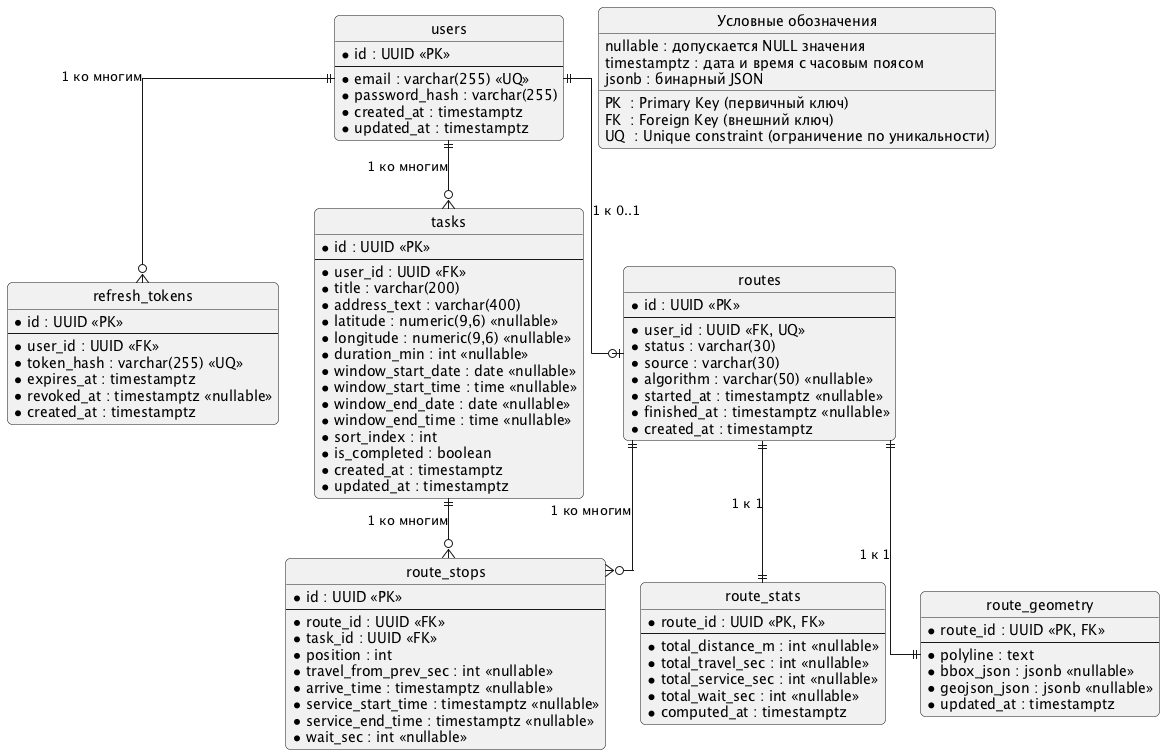
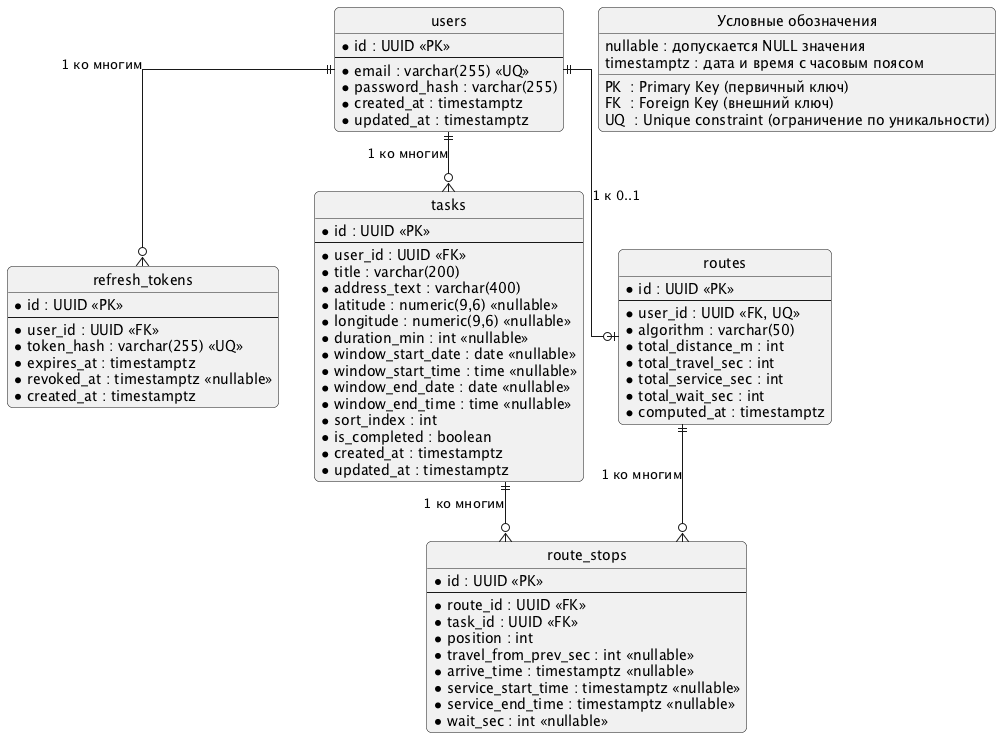
Оптимизировал модель данных ERD. Убрал лишние столбцы

diff --git a/frontend/Task Planning App/src/app/api/client.ts b/frontend/Task Planning App/src/app/api/client.ts
@@ -36,10 +36,12 @@ interface ApiTask {
 
 interface ApiRoute {
     ID: string;
-    Status: string;
-    Source: string;
-    CreatedAt: string;
-    Name?: string | null;
+    Algorithm: string;
+    ComputedAt: string;
+    TotalDistanceM: number;
+    TotalTravelSec: number;
+    TotalServiceSec: number;
+    TotalWaitSec: number;
 }
 
 interface ApiRouteStop {
@@ -52,16 +54,9 @@ interface ApiRouteStop {
     WaitSec?: number | null;
 }
 
-interface ApiRouteStats {
-    TotalDistanceM?: number | null;
-    TotalTravelSec?: number | null;
-    TotalServiceSec?: number | null;
-}
-
 interface ApiRouteFull {
     Route: ApiRoute;
     Stops: ApiRouteStop[];
-    Stats?: ApiRouteStats | null;
 }
 
 export class ApiError extends Error {
@@ -428,15 +423,13 @@ function mapTaskFromApi(task: ApiTask): Task {
 function mapRouteSummary(route: ApiRoute): SavedRouteSummary {
     return {
         id: route.ID,
-        status: route.Status,
-        source: route.Source,
-        createdAt: route.CreatedAt,
-        name: route.Name ?? undefined,
+        algorithm: route.Algorithm,
+        computedAt: route.ComputedAt,
     };
 }
 
-function mapRouteDetails(route: ApiRouteFull): SavedRouteDetails {
-    const sortedStops = [...(route.Stops ?? [])].sort(
+function mapRouteDetails(full: ApiRouteFull): SavedRouteDetails {
+    const sortedStops = [...(full.Stops ?? [])].sort(
         (a, b) => a.Position - b.Position,
     );
 
@@ -452,29 +445,17 @@ function mapRouteDetails(route: ApiRouteFull): SavedRouteDetails {
         waitSec: s.WaitSec ?? undefined,
     }));
 
-    const totalDistanceKm =
-        route.Stats?.TotalDistanceM != null
-            ? route.Stats.TotalDistanceM / 1000
-            : undefined;
-    const totalTravelTimeMin =
-        route.Stats?.TotalTravelSec != null
-            ? Math.ceil(route.Stats.TotalTravelSec / 60)
-            : undefined;
-    const serviceTimeMin =
-        route.Stats?.TotalServiceSec != null
-            ? Math.ceil(route.Stats.TotalServiceSec / 60)
-            : undefined;
+    const totalDistanceKm = full.Route.TotalDistanceM / 1000;
+    const totalTravelTimeMin = Math.ceil(full.Route.TotalTravelSec / 60);
+    const serviceTimeMin = Math.ceil(full.Route.TotalServiceSec / 60);
 
     return {
-        ...mapRouteSummary(route.Route),
+        ...mapRouteSummary(full.Route),
         orderedTaskIds,
         stops,
         totalDistanceKm,
         totalTravelTimeMin,
-        totalDurationMin:
-            totalTravelTimeMin !== undefined || serviceTimeMin !== undefined
-                ? (totalTravelTimeMin ?? 0) + (serviceTimeMin ?? 0)
-                : undefined,
+        totalDurationMin: totalTravelTimeMin + serviceTimeMin,
     };
 }
 

diff --git a/frontend/Task Planning App/src/app/api/client.test.ts b/frontend/Task Planning App/src/app/api/client.test.ts
@@ -44,10 +44,12 @@ const apiTaskResponse = {
 
 const apiRouteResponse = {
   ID: 'route-1',
-  Status: 'optimized',
-  Source: 'optimized',
-  CreatedAt: '2024-01-01T00:00:00Z',
-  Name: 'My Route',
+  Algorithm: 'nearest-neighbor-tw',
+  ComputedAt: '2024-01-01T00:00:00Z',
+  TotalDistanceM: 5000,
+  TotalTravelSec: 1200,
+  TotalServiceSec: 3600,
+  TotalWaitSec: 0,
 };
 
 const apiRouteFullResponse = {
@@ -56,11 +58,6 @@ const apiRouteFullResponse = {
     { TaskID: 'task-1', Position: 0 },
     { TaskID: 'task-2', Position: 1 },
   ],
-  Stats: {
-    TotalDistanceM: 5000,
-    TotalTravelSec: 1200,
-    TotalServiceSec: 3600,
-  },
 };
 
 const server = setupServer(

diff --git a/frontend/Task Planning App/src/app/types/route.ts b/frontend/Task Planning App/src/app/types/route.ts
@@ -1,9 +1,7 @@
 export interface SavedRouteSummary {
   id: string;
-  status: string;
-  source: string;
-  createdAt: string;
-  name?: string;
+  algorithm: string;
+  computedAt: string;
 }
 
 export interface RouteStopTiming {

diff --git a/backend/internal/domain/route/story/story_test.go b/backend/internal/domain/route/story/story_test.go
@@ -101,13 +101,12 @@ func identity2x2Matrix() [][]distancepkg.Edge {
 	}
 }
 
-func makeRoute(id, userID, status string) route.Route {
+func makeRoute(id, userID string) route.Route {
 	return route.Route{
-		ID:        id,
-		UserID:    userID,
-		Status:    status,
-		Source:    "manual",
-		CreatedAt: time.Now(),
+		ID:         id,
+		UserID:     userID,
+		Algorithm:  "nearest-neighbor-tw",
+		ComputedAt: time.Now(),
 	}
 }
 
@@ -158,7 +157,7 @@ func TestOptimize_Success(t *testing.T) {
 
 	rRepo := &mockRouteRepo{
 		saveOptimizedRouteFn: func(_ context.Context, _ string, _ string, stops []routegate.StopInput, _, _, _, _ int) (route.Route, error) {
-			return makeRoute(uuid.NewString(), uid, "optimized"), nil
+			return makeRoute(uuid.NewString(), uid), nil
 		},
 	}
 	tRepo := &mockTaskRepo{
@@ -170,8 +169,7 @@ func TestOptimize_Success(t *testing.T) {
 	s := New(rRepo, tRepo, &mockDistProvider{}, defaultOptimizer())
 	full, err := s.Optimize(context.Background(), uid, taskIDs, 540, matrix, nil, nil, nil)
 	require.NoError(t, err)
-	assert.Equal(t, "optimized", full.Route.Status)
-	assert.NotNil(t, full.Stats)
+	assert.Equal(t, "nearest-neighbor-tw", full.Route.Algorithm)
 	assert.Len(t, full.Stops, 3)
 }
 
@@ -193,7 +191,7 @@ func TestOptimize_ExactlyTwoTasks(t *testing.T) {
 
 	rRepo := &mockRouteRepo{
 		saveOptimizedRouteFn: func(_ context.Context, _, _ string, _ []routegate.StopInput, _, _, _, _ int) (route.Route, error) {
-			return makeRoute(uuid.NewString(), uid, "optimized"), nil
+			return makeRoute(uuid.NewString(), uid), nil
 		},
 	}
 	tRepo := &mockTaskRepo{
@@ -240,7 +238,7 @@ func TestOptimize_ExternalMatrix_OSRMNotCalled(t *testing.T) {
 	}
 	rRepo := &mockRouteRepo{
 		saveOptimizedRouteFn: func(_ context.Context, _, _ string, _ []routegate.StopInput, _, _, _, _ int) (route.Route, error) {
-			return makeRoute(uuid.NewString(), uid, "optimized"), nil
+			return makeRoute(uuid.NewString(), uid), nil
 		},
 	}
 
@@ -270,7 +268,7 @@ func TestOptimize_NoMatrix_OSRMCalled(t *testing.T) {
 	}
 	rRepo := &mockRouteRepo{
 		saveOptimizedRouteFn: func(_ context.Context, _, _ string, _ []routegate.StopInput, _, _, _, _ int) (route.Route, error) {
-			return makeRoute(uuid.NewString(), uid, "optimized"), nil
+			return makeRoute(uuid.NewString(), uid), nil
 		},
 	}
 
@@ -332,7 +330,7 @@ func TestOptimize_ConstraintsPassedToOptimizer(t *testing.T) {
 
 	rRepo := &mockRouteRepo{
 		saveOptimizedRouteFn: func(_ context.Context, _, _ string, _ []routegate.StopInput, _, _, _, _ int) (route.Route, error) {
-			return makeRoute(uuid.NewString(), uid, "optimized"), nil
+			return makeRoute(uuid.NewString(), uid), nil
 		},
 	}
 	tRepo := &mockTaskRepo{
@@ -496,7 +494,7 @@ func TestOptimize_AlignsMatrixWithTaskIDsOrder(t *testing.T) {
 	}
 	rRepo := &mockRouteRepo{
 		saveOptimizedRouteFn: func(_ context.Context, _, _ string, _ []routegate.StopInput, _, _, _, _ int) (route.Route, error) {
-			return makeRoute(uuid.NewString(), uid, "optimized"), nil
+			return makeRoute(uuid.NewString(), uid), nil
 		},
 	}
 
@@ -619,7 +617,7 @@ func TestOptimize_DemoCSV_PitersServisFitsWindow(t *testing.T) {
 
 	rRepo := &mockRouteRepo{
 		saveOptimizedRouteFn: func(_ context.Context, _, _ string, _ []routegate.StopInput, _, _, _, _ int) (route.Route, error) {
-			return makeRoute(uuid.NewString(), uid, "optimized"), nil
+			return makeRoute(uuid.NewString(), uid), nil
 		},
 	}
 

diff --git a/backend/internal/platform/postgres/repository/route_repo.go b/backend/internal/platform/postgres/repository/route_repo.go
@@ -2,7 +2,6 @@ package repository
 
 import (
 	"context"
-	"time"
 
 	"github.com/jackc/pgx/v5"
 	"github.com/jackc/pgx/v5/pgxpool"
@@ -11,12 +10,15 @@ import (
 )
 
 // routeColumns — поля в SELECT/RETURNING для таблицы routes; держим в одном месте.
-const routeColumns = `id, user_id, status, source, name, algorithm, started_at, finished_at, created_at`
+const routeColumns = `id, user_id, algorithm,
+	total_distance_m, total_travel_sec, total_service_sec, total_wait_sec,
+	computed_at`
 
 // scanRoute заполняет route.Route из строки запроса, выбранного по routeColumns.
 func scanRoute(s interface{ Scan(...any) error }, rt *route.Route) error {
-	return s.Scan(&rt.ID, &rt.UserID, &rt.Status, &rt.Source, &rt.Name,
-		&rt.Algorithm, &rt.StartedAt, &rt.FinishedAt, &rt.CreatedAt)
+	return s.Scan(&rt.ID, &rt.UserID, &rt.Algorithm,
+		&rt.TotalDistanceM, &rt.TotalTravelSec, &rt.TotalServiceSec, &rt.TotalWaitSec,
+		&rt.ComputedAt)
 }
 
 type RouteRepo struct {
@@ -43,12 +45,12 @@ func (r *RouteRepo) SaveOptimizedRoute(
 		return route.Route{}, err
 	}
 
-	now := time.Now()
 	row := tx.QueryRow(ctx, `
-		INSERT INTO routes(user_id, status, source, algorithm, started_at, finished_at)
-		VALUES ($1, 'optimized', 'optimized', $2, $3, $3)
+		INSERT INTO routes(user_id, algorithm,
+			total_distance_m, total_travel_sec, total_service_sec, total_wait_sec)
+		VALUES ($1, $2, $3, $4, $5, $6)
 		RETURNING `+routeColumns,
-		userID, algorithm, now)
+		userID, algorithm, distanceM, travelSec, serviceSec, waitSec)
 
 	var rt route.Route
 	if err := scanRoute(row, &rt); err != nil {
@@ -56,13 +58,6 @@ func (r *RouteRepo) SaveOptimizedRoute(
 	}
 
 	if err := insertStops(ctx, tx, rt.ID, stops); err != nil {
-		return route.Route{}, err
-	}
-
-	if _, err := tx.Exec(ctx, `
-		INSERT INTO route_stats(route_id, total_distance_m, total_travel_sec, total_service_sec, total_wait_sec)
-		VALUES ($1, $2, $3, $4, $5)
-	`, rt.ID, distanceM, travelSec, serviceSec, waitSec); err != nil {
 		return route.Route{}, err
 	}
 

diff --git a/backend/internal/api/http/handlers_routes_test.go b/backend/internal/api/http/handlers_routes_test.go
@@ -104,13 +104,12 @@ func newRouteTestRouter(rRepo *hRouteRepo, tRepo *hTaskRepo, dist *hDistProvider
 	return r
 }
 
-func makeTestRoute(id, userID, status string) route.Route {
+func makeTestRoute(id, userID string) route.Route {
 	return route.Route{
-		ID:        id,
-		UserID:    userID,
-		Status:    status,
-		Source:    "optimized",
-		CreatedAt: time.Now(),
+		ID:         id,
+		UserID:     userID,
+		Algorithm:  "nearest-neighbor-tw",
+		ComputedAt: time.Now(),
 	}
 }
 
@@ -150,7 +149,7 @@ func TestRouteHandler_Optimize_Success(t *testing.T) {
 	}
 	rRepo := &hRouteRepo{
 		saveOptimizedRouteFn: func(_ context.Context, _, _ string, _ []routegate.StopInput, _, _, _, _ int) (route.Route, error) {
-			return makeTestRoute(routeID, routeTestUserID, "optimized"), nil
+			return makeTestRoute(routeID, routeTestUserID), nil
 		},
 	}
 
@@ -183,7 +182,7 @@ func TestRouteHandler_Optimize_WithConstraints(t *testing.T) {
 	}
 	rRepo := &hRouteRepo{
 		saveOptimizedRouteFn: func(_ context.Context, _, _ string, _ []routegate.StopInput, _, _, _, _ int) (route.Route, error) {
-			return makeTestRoute(routeID, routeTestUserID, "optimized"), nil
+			return makeTestRoute(routeID, routeTestUserID), nil
 		},
 	}
 

diff --git a/backend/internal/domain/route/story/story.go b/backend/internal/domain/route/story/story.go
@@ -266,7 +266,7 @@ func makeStopInputs(result routeopt.Result, tasks []task.Task) []routegate.StopI
 	return stops
 }
 
-func assembleFull(rt route.Route, stops []routegate.StopInput, r routeopt.Result) route.Full {
+func assembleFull(rt route.Route, stops []routegate.StopInput, _ routeopt.Result) route.Full {
 	routeStops := make([]route.Stop, len(stops))
 	for i, s := range stops {
 		travel := s.TravelFromPrevSec
@@ -282,15 +282,7 @@ func assembleFull(rt route.Route, stops []routegate.StopInput, r routeopt.Result
 		}
 	}
 
-	stats := &route.Stats{
-		RouteID:         rt.ID,
-		TotalDistanceM:  ptrs.Ptr(r.TotalDistanceM),
-		TotalTravelSec:  ptrs.Ptr(r.TotalTravelSec),
-		TotalServiceSec: ptrs.Ptr(r.TotalServiceSec),
-		TotalWaitSec:    ptrs.Ptr(r.TotalWaitSec),
-	}
-
-	return route.Full{Route: rt, Stops: routeStops, Stats: stats}
+	return route.Full{Route: rt, Stops: routeStops}
 }
 
 type boundKind int

diff --git a/backend/internal/domain/route/route.go b/backend/internal/domain/route/route.go
@@ -3,15 +3,14 @@ package route
 import "time"
 
 type Route struct {
-	ID         string
-	UserID     string
-	Status     string
-	Source     string
-	Name       *string
-	Algorithm  *string
-	StartedAt  *time.Time
-	FinishedAt *time.Time
-	CreatedAt  time.Time
+	ID              string
+	UserID          string
+	Algorithm       string
+	TotalDistanceM  int
+	TotalTravelSec  int
+	TotalServiceSec int
+	TotalWaitSec    int
+	ComputedAt      time.Time
 }
 
 type Stop struct {
@@ -24,21 +23,4 @@ type Stop struct {
 	ServiceStartTime  *time.Time
 	ServiceEndTime    *time.Time
 	WaitSec           *int
-}
-
-type Stats struct {
-	RouteID         string
-	TotalDistanceM  *int
-	TotalTravelSec  *int
-	TotalServiceSec *int
-	TotalWaitSec    *int
-	ComputedAt      time.Time
-}
-
-type Geometry struct {
-	RouteID   string
-	Polyline  string
-	BBoxJSON  *string
-	GeoJSON   *string
-	UpdatedAt time.Time
 }

diff --git a/backend/internal/domain/route/full.go b/backend/internal/domain/route/full.go
@@ -1,8 +1,6 @@
 package route
 
 type Full struct {
-	Route    Route
-	Stops    []Stop
-	Stats    *Stats    `json:",omitempty"`
-	Geometry *Geometry `json:",omitempty"`
+	Route Route
+	Stops []Stop
 }
